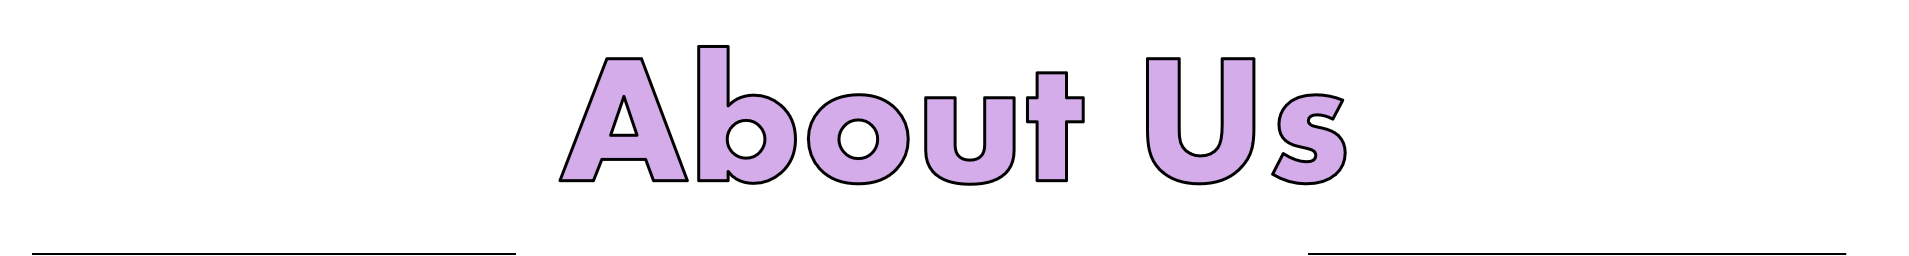
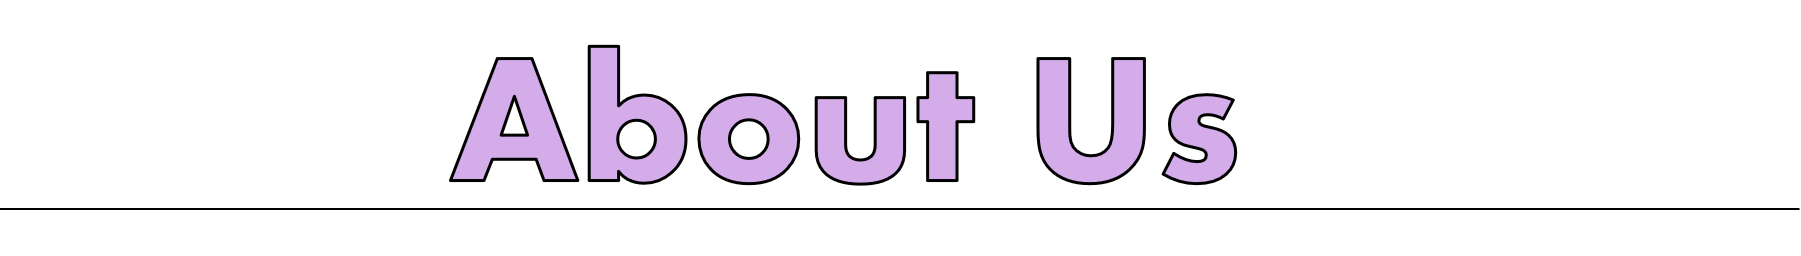
文字排版微調

diff --git a/style.scss b/style.scss
@@ -310,7 +310,7 @@ $text-color: rgb(0, 0, 0);
     &-text {
         font-family: "Microsoft JhengHei", sans-serif;
         position: absolute; // 讓文字絕對定位於父元素（圖片）上
-        top: 50px; // 讓文字垂直置中
+        top: 65px; // 讓文字垂直置中
         left: 50%; // 讓文字水平置中
         transform: translate(-50%, -50%); // 讓文字完全居中
         font-size: 1.8rem; // 設置文字大小（可根據需要調整）
@@ -706,7 +706,7 @@ $text-color: rgb(0, 0, 0);
   
       .text-introduce-part2,
       .text-introduce-part3 {
-        text-align: right;
+        text-align: left;
         margin-bottom: 1.5rem;
         font-size: 1rem;
         line-height: 1.6;

diff --git a/style.css b/style.css
@@ -269,7 +269,7 @@ canvas, #bubbleCanvas {
 .title-text {
   font-family: "Microsoft JhengHei", sans-serif;
   position: absolute;
-  top: 50px;
+  top: 65px;
   left: 50%;
   transform: translate(-50%, -50%);
   font-size: 1.8rem;
@@ -753,7 +753,7 @@ canvas, #bubbleCanvas {
 }
 .section-introduce-2 .text-container-2 .text-introduce-part2,
 .section-introduce-2 .text-container-2 .text-introduce-part3 {
-  text-align: right;
+  text-align: left;
   margin-bottom: 1.5rem;
   font-size: 1rem;
   line-height: 1.6;
